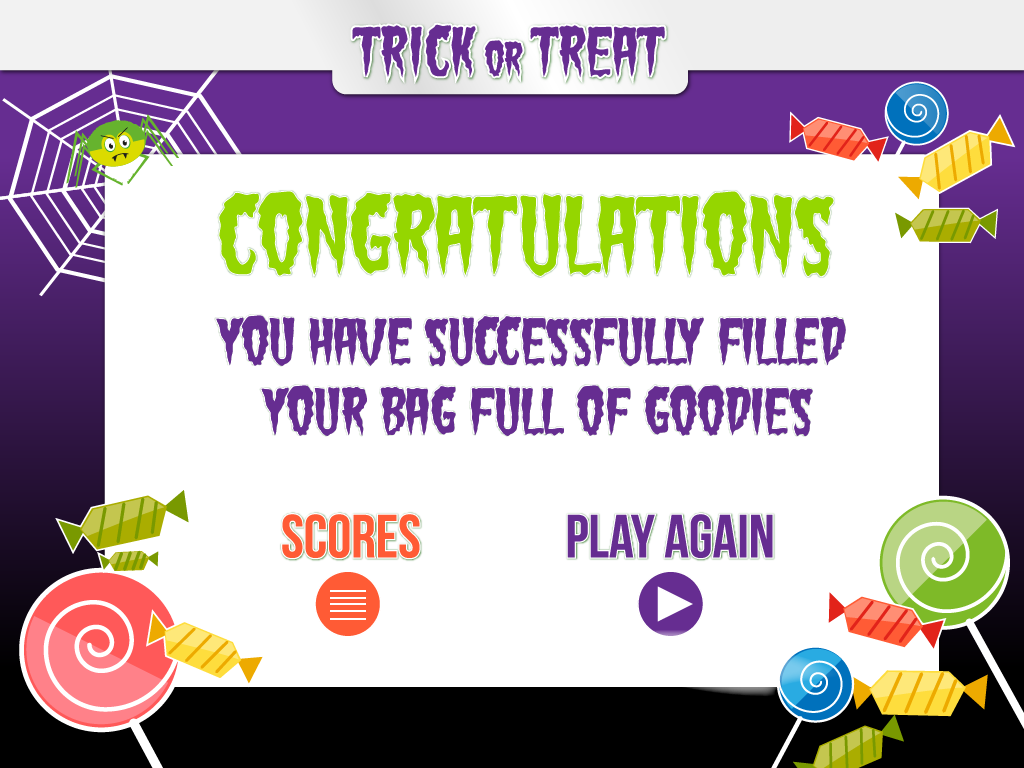
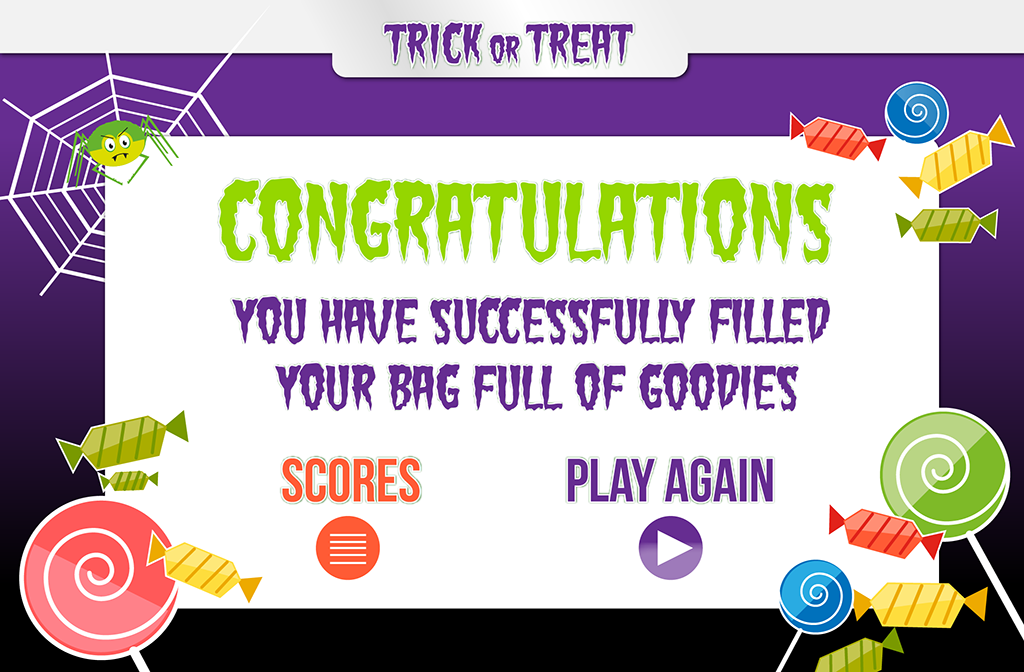
Changes sizes, graphics, images

Changed region(s): [[0.0, 0.0312, 1.0, 0.625], [0.0, 0.5938, 1.0, 1.0]]

diff --git a/css/styles.css b/css/styles.css
@@ -1,35 +1,31 @@
+html {
+}
+
 body {
-  background-color: #3C3C3C;
-  color: #fff;
-
-  /* Allow mouse dragging. */
-  -moz-user-select: none;
-  -ms-user-select: none;
-  -o-user-select: none;
-  -webkit-user-select: none;
-  user-select: none;
-  -moz-user-callout: none;
-  -ms-user-callout: none;
-  -o-user-callout: none;
-  -webkit-user-callout: none;
-  user-callout: none;
-  
-  /* disable touch panning/zooming */
-  -ms-touch-action: none;
-  touch-action: none;
-
-  /* Allow canvas to hit the edges of the browser viewport. */
-  margin: 0;
+margin: 0 !important;
 }
 
 
 #screen canvas {
-	max-height: 768px;
+	max-height: 672px;
+
+
 }
+
+
+@media (orientation:landscape) {
+    html.ipad.ios7 > body {
+        position: fixed;
+        bottom: 0;
+        margin: 0 !important;
+        width:100%;
+        height: 672px !important;
+    }
+}
+
 
 #screen canvas {
   display: block;
-  margin: auto;
   /* Hide the gap for font descenders. */
   
   /* disable scaling interpolation */
@@ -51,7 +47,7 @@ button {
 	outline:none;
 }
 .screen {
-	height:768px;
+	height: 672px;
 	width:1024px;
 	position: relative;
 }
@@ -59,8 +55,7 @@ button {
 #landing-page-terms{
     display:none;
 	position: relative;
-	top:-768px;
-	margin:0 auto;
+	top:-672px;
 }
 
     #closeterms {
@@ -73,11 +68,12 @@ button {
 
 #landing-page {
 	background : #CCC;
-	height:768px;
+/*	height:768px; */
+	height: 672px;
 	width:1024px;
-	margin:0 auto;
 	display:block;
 	background:url(/img/bg_landingpage.png);
+	background-size: 1024px 672px;
 }
 
 
@@ -98,11 +94,11 @@ button {
 
 #landing-page button {
 
-	height:97px;
+	height:120px;
 	width:113px;
 	position: absolute;
-	top:589px;
-	left:67px;
+	top:510px;
+	left:70px;
 }
 
 #landing-page p {
@@ -131,7 +127,7 @@ button {
 
 #user-form {
 	float:left;
-	margin-top:408px;
+	margin-top:354px;
 	margin-left:42px;
 	width:190px;
 	clear: both;
@@ -152,6 +148,7 @@ button {
 
 #enter_name {
 	background:url(/img/bg_entername.png);
+	background-size: 1024px 672px;
 	display:none;
 }
 
@@ -179,6 +176,7 @@ button {
 
 #select_character {
 background:url(/img/bg_selectchar.png);
+background-size: 1024px 672px;
 display:none;
 }
 
@@ -210,51 +208,58 @@ cursor: pointer;
 
 #instructions {
 background:url(/img/bg_instructions.png);
+background-size: 1024px 672px;
 display:none;
 }
 
 #instructions button {
 	width:170px;
 	height:100px;
-	top:500px;
-	left:400px;
+	top:440px;
+	left:410px;
 	position: absolute;
 
 }
 
+#landing-page button:hover, #instructions button:hover, #instructions_2 button:hover {
+cursor: pointer;	
+}
+
 #instructions_2 {
 background:url(/img/bg_instructions_2.png);
+background-size: 1024px 672px;
 display:none;
 }
 
 #instructions_2 button {
 	width:170px;
 	height:100px;
-	top:500px;
-	left:400px;
+	top:440px;
+	left:410px;
 	position: absolute;
 
 }
 
 #leader-board{
 	background-image : url('/img/bg_leaderboard.png');
-	height:768px;
+	background-size: 1024px 672px;
+	height:672px;
 	width:1024px;
-	margin:0 auto;
 }
 
 
 #leader-board ul {
 	list-style: none;
 	position: absolute;
-	top:134px;
+	top:143px;
 	left:197px;
 	width:623px;
+	margin: 0;
 }
 
 #leader-board li {
 	width: 600px;
-	height:110px;
+	height:89px;
 }
 
 #leader-board h2 {
@@ -276,10 +281,10 @@ display:none;
 
 #leader-board-play-again {
 	background-image : url('./landing-images/play-again.png');
+	background-size: 1024px 672px;
 	width:1024px;
-	height:768px;
-	margin:0 auto;
-	margin-top:-768px;
+	height:672px;
+	margin-top:-672px;
 	display:block;
 }
 body:after

diff --git a/js/05_hud.js b/js/05_hud.js
@@ -45,10 +45,10 @@ game.HUD.ScoreItem = me.Renderable.extend({
         this.parent(new me.Vector2d(x, y), 10, 10);
 
         // local copy of the global score
-        this.stepsFont = new me.Font('Oswald', 40, '#00259a', 'right');
+        this.stepsFont = new me.Font('Oswald', 30, '#00259a', 'right');
 
         // make sure we use screen coordinates
-        this.floating = true;
+        this.floating = false;
     },
 
     update: function() {
@@ -79,7 +79,7 @@ game.HUD.LevelItem = me.Renderable.extend({
         this.stepsFont = new me.Font('Oswald', 72, '#00259a', 'center');
 
         // make sure we use screen coordinates
-        this.floating = true;
+        this.floating = false;
 
 
     },
@@ -106,7 +106,7 @@ var BackgroundLayer = me.ImageLayer.extend({
     init: function(image, z, speed) {
         name = image;
         width = 1024;
-        height = 768;
+        height = 672;
         ratio = 1;
         // call parent constructor
         this.parent(name, width, height, image, z, ratio);
@@ -124,10 +124,10 @@ var LifeLayer = me.ObjectEntity.extend({
         console.log(character)
         settings.image = me.loader.getImage('life-'+character.char);
 
-        settings.width = 56;
-        settings.height = 59;
-        settings.spritewidth = 56;
-        settings.spriteheight = 59;
+        settings.width = 40;
+        settings.height = 42;
+        settings.spritewidth = 40;
+        settings.spriteheight = 42;
 
         this.alive = true;
         this.lifeIndex = lifeIndex;

diff --git a/game.html b/game.html
@@ -18,12 +18,15 @@
             <script type='text/javascript' src='https://cdn.firebase.com/js/simple-login/1.6.1/firebase-simple-login.js'></script>
 
         </head>
-        <body>
+        <body style="margin: 0;">
 
     <div id="screen"></div>
+    
     <div class="score" style="position: absolute; width: 200px; height: 200px;
-    top: 430px; left: 266px; z-index: -5;"></div><div class="restart" style="position: absolute; width: 200px; height: 200px;
-    top: 430px; left: 580px; z-index: -5;"></div>
+    top: 380px; left: 286px; z-index: -5;"></div>
+    
+    <div class="restart" style="position: absolute; width: 200px; height: 200px;
+    top: 370px; left: 570px; z-index: -5;"></div>
 
 
 
@@ -83,6 +86,9 @@
 
             });
                 }
+
+
+
             </script>
         </body>
     </html>

diff --git a/leader-board.html b/leader-board.html
@@ -30,10 +30,15 @@
   	<div id="screen"></div>
 
     <div id="playagain" style="position: absolute; width: 350px; height: 200px;
-    top: 670px; left: 330px;"></div>
+    top: 558px; left: 330px;"></div>
 
 
 <script type="text/javascript">
+
+if (navigator.userAgent.match(/iPad;.*CPU.*OS 7_\d/i)) {
+    $('html').addClass('ipad ios7');
+}
+
 
     $('#playagain').bind('click ontouchstart', function(e) {
 
@@ -76,6 +81,7 @@ window.location = 'game.html?char='+character+'&fname='+userFirstName+'&lname='+
       }          
 
       })
+
 
 
 

diff --git a/js/06_buttons.js b/js/06_buttons.js
@@ -54,7 +54,8 @@ window.location = 'leader-board.html?char='+character+'&fname='+userFirstName+'&
 
 $('.restart').bind('click ontouchstart', function(e) {
 
-console.log(isGameOverScreen);
+//console.log(isGameOverScreen);
+//console.log(game.data.steps);
 
 
   if(isGameOverScreen) {
@@ -71,7 +72,7 @@ console.log(isGameOverScreen);
             }
            $('.score').css({"z-index": "-1"});
            $('.restart').css({"z-index": "-1"}); 
-           me.state.resume();
+          me.state.resume();
          }
 
 });

diff --git a/js/football.js b/js/football.js
@@ -3,9 +3,9 @@ var GameOverBackground = me.ObjectEntity.extend({
         var settings = {};
         settings.image = me.loader.getImage(image);
         settings.width = 1024;
-        settings.height = 768;
+        settings.height = 672;
         settings.spritewidth = 1024;
-        settings.spriteheight = 768;
+        settings.spriteheight = 690;
         this.parent(x, y, settings);
     },
 

diff --git a/index.html b/index.html
@@ -45,6 +45,13 @@
                         window.location = 'game.html?char='+character+'&fname='+userFirstName+'&lname='+userLastName+'&email='+userEmail+'&nick='+charName;
                     })
                 })
+
+
+if (navigator.userAgent.match(/iPad;.*CPU.*OS 7_\d/i)) {
+    $('html').addClass('ipad ios7');
+}
+
+                
                 
         </script>
     </head>

diff --git a/js/00_init.js b/js/00_init.js
@@ -29,7 +29,7 @@ game.onload = function(user, teamName) {
 
 
     var width = 1024;
-    var height = ($(window).height() < 768) ? $(window).height() : 768;
+    var height = ($(window).height() < 672) ? $(window).height() : 672;
     var scale = 1;
 
 
